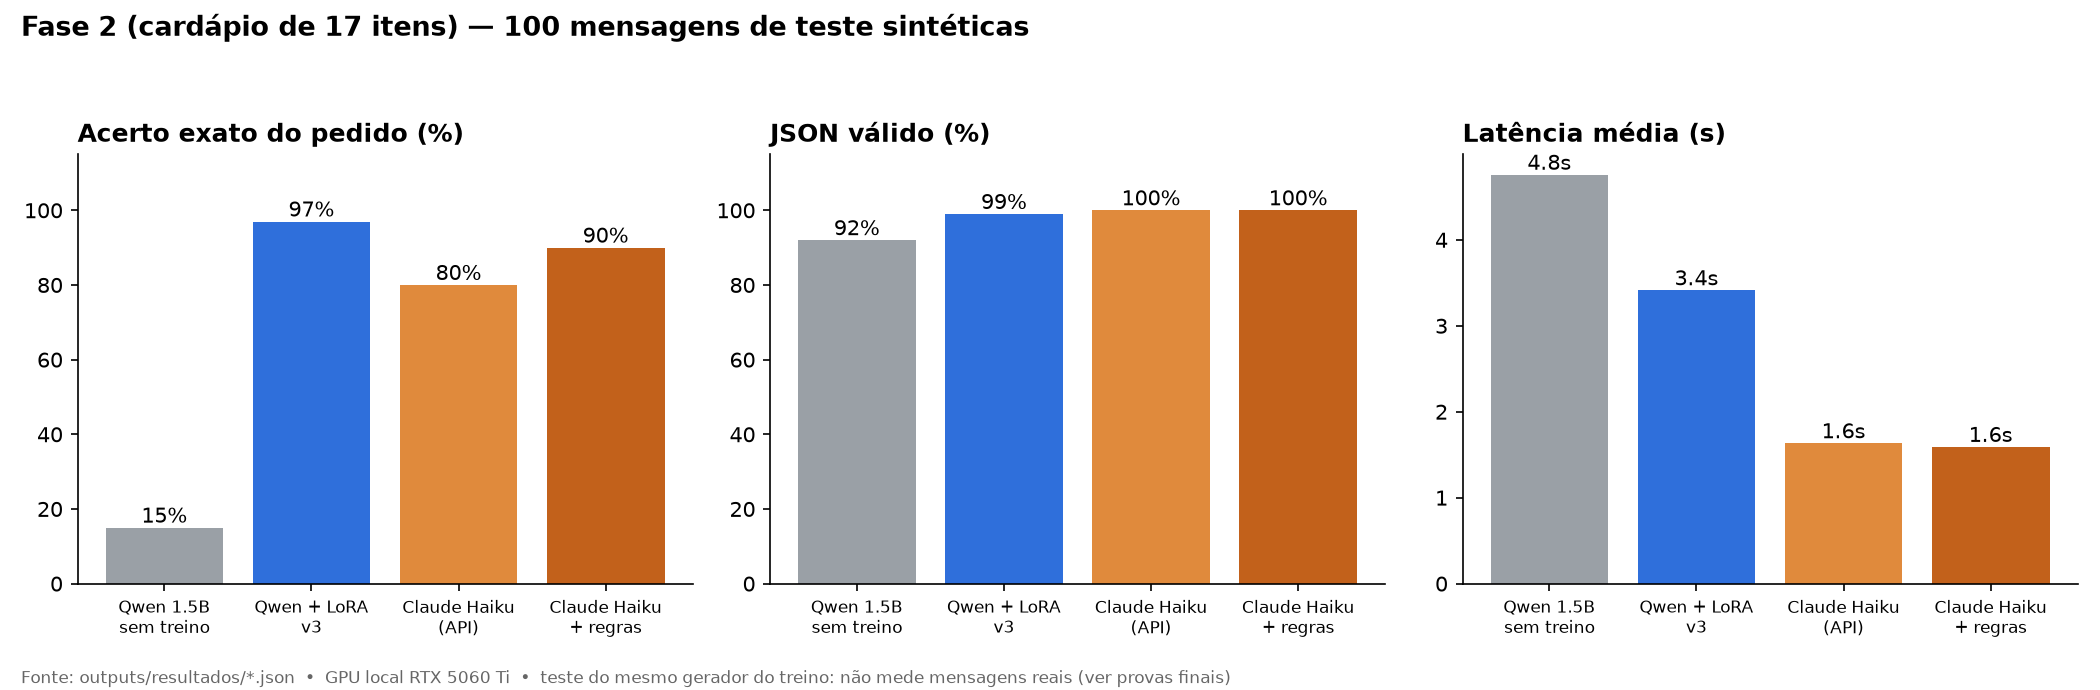
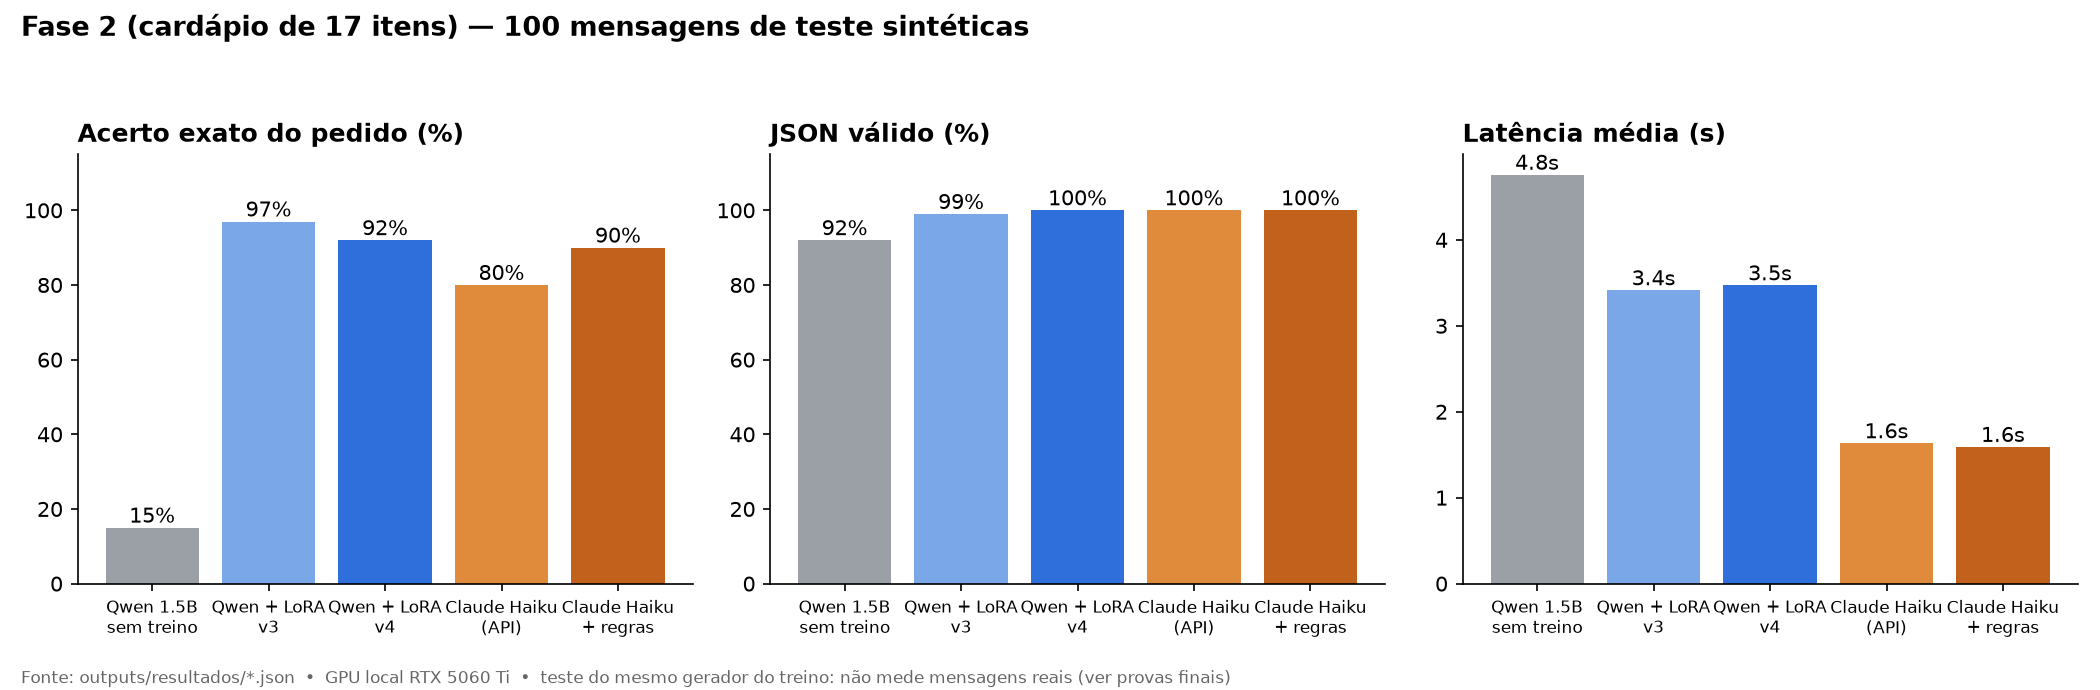
Resultado do v4: reprovado no criterio de aceitacao (documentado) e correcao do rodar_v4.ps1

diff --git a/docs/DIARIO.md b/docs/DIARIO.md
@@ -166,6 +166,21 @@ Mudanças nos dados: pontuação variada (ponto, reticências, exclamação, que
 Ocorrências: o primeiro treino ficou lento (a placa estava dividida com outros programas, memória em 15,9 de 16 GB), foi suspenso, e o processo congelado acabou encerrado pelo app, perdendo o progresso (o script ainda não tinha checkpoint). O script agora salva a cada 50 passos e aceita `--retomar`. O segundo treino foi interrompido por escolha na época ~1 de 3, com checkpoint salvo. Ver `docs/PROXIMOS_PASSOS.md`.
 Lição de engenharia: treinos longos precisam de checkpoint desde o primeiro disparo.
 
+### 13. Resultado do v4: reprovado no critério
+O treino foi retomado do checkpoint e terminou em ~8 min com a placa livre (a lentidão anterior era disputa pela GPU). Perda final de treino: 0,0019.
+
+| Concordância com o Claude em 40 mensagens reais | v3 | v4 |
+|---|---|---|
+| como foram escritas | 24/40 | 21/40 |
+| minúsculas | - | 22/40 |
+| sem pontuação | 34/40 | 27/40 |
+| minúsculas e sem pontuação | - | 26/40 |
+
+Critério fixado antes do resultado: >= 34/40 em todas as formas e diferença <= 3. **Reprovado**: o v4 ficou abaixo do v3 em todas as comparações possíveis, e o teste sintético também caiu (92% contra 97% do v3). JSON válido continua em 100%, então o problema é de conteúdo, não de formato.
+
+O que NÃO sabemos: por que piorou. Hipóteses ainda não testadas: (a) a mudança do gerador (pontuação, caixa de frase, mais ruído) deixou o treino mais difícil e 3 épocas em 3.000 exemplos não bastam; (b) as 40 mensagens reais já estão contaminadas pelo estilo que o v3 aprendeu a imitar (elas guiaram o v3); (c) variação normal entre treinos (um treino só, sem repetição). Nenhuma foi confirmada; não vamos afirmar causa sem experimento.
+Decisão: o v3 continua sendo o melhor modelo medido. Não há prova final do v4, pois não passou no critério.
+
 ## Decisões técnicas
 - **LoRA em bf16**, não QLoRA: o Qwen 1.5B ocupa ~3 GB e a GPU tem 16 GB; comprimir em 4 bits só vale se o modelo não couber.
 - **Prompt curto no treino** ("Extraia o pedido da mensagem em JSON."): o cardápio é aprendido nos pesos, o que reduz tokens por chamada.

diff --git a/README.md b/README.md
@@ -29,7 +29,7 @@ Uma lista de itens vazia significa que a mensagem **não é um pedido** (pergunt
 ## Lições até agora
 - Dados sintéticos davam 99% no teste do mesmo gerador, mas **30% em mensagens novas** (v2): o modelo aprendeu o estilo do gerador, não o problema. Ver o diário.
 - O **v3** (cardápio de 17 itens, mensagens sem pedido e itens fora do cardápio no treino) fez **15/20 (75%)** numa prova com 20 mensagens novas, empatado com o Claude Haiku com regras (15/20). Com 20 mensagens é um empate técnico.
-- O v3 tem um defeito conhecido: **perde bebidas no fim do pedido quando a mensagem tem pontuação** (24/40 de concordância com o Claude nas mensagens como foram escritas, 34/40 com a pontuação removida). O v4 vai corrigir isso.
+- O v3 tem um defeito conhecido: **perde bebidas no fim do pedido quando a mensagem tem pontuação** (24/40 de concordância com o Claude nas mensagens como foram escritas, 34/40 com a pontuação removida). Uma tentativa de corrigir isso (v4: dados com pontuação variada) **foi reprovada** no critério definido antes do resultado e ficou pior que o v3 (ver diário, seção 13).
 - O gabarito da prova final foi escrito **antes** de rodar os modelos.
 - Cardápio fixo: o modelo "sabe" o cardápio porque aprendeu no treino; se o cardápio mudar, precisa retreinar.
 

diff --git a/docs/PROXIMOS_PASSOS.md b/docs/PROXIMOS_PASSOS.md
@@ -5,6 +5,9 @@
 - **v4** (corrige pontuação/maiúsculas): dados prontos (3.000 exemplos), treino **interrompido** na época ~1 de 3. Há um checkpoint em `outputs/checkpoints/checkpoint-200`; ele **não vai para o GitHub** (fica só no computador).
 - Critério de aceitação do v4, definido antes do resultado, em `src/robustez.py`: concordância com o Claude >= 34/40 nas 4 formas da mensagem e diferença <= 3 entre a melhor e a pior.
 
+## Atualização: v4 já rodou e foi REPROVADO
+Concordância com o Claude: 21, 22, 27 e 26 de 40 nas 4 formas (critério: >= 34 em todas). Pior que o v3; teste sintético 92% (v3: 97%). Detalhes e hipóteses não testadas na seção 13 do diário. Não há prova final do v4. Decidir o próximo experimento (ver diário) antes de gastar mais treino. O texto abaixo é o histórico de como o v4 foi rodado.
+
 ## Para rodar o v4 (no computador do projeto)
 1. Feche jogos e programas que usam a placa (Wallpaper Engine, etc.).
 2. No PowerShell, dentro da pasta do projeto:
